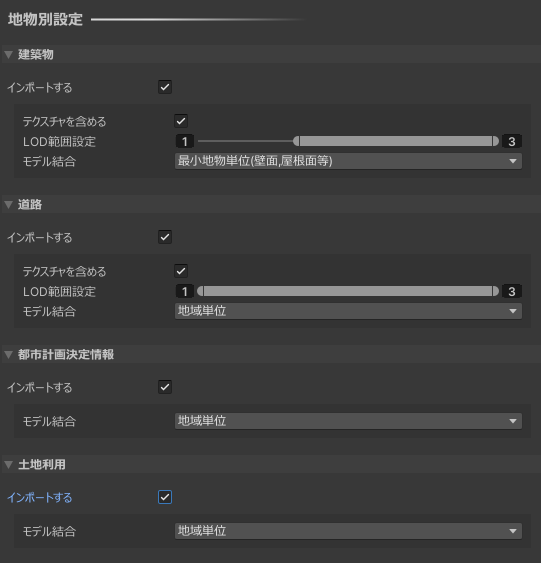
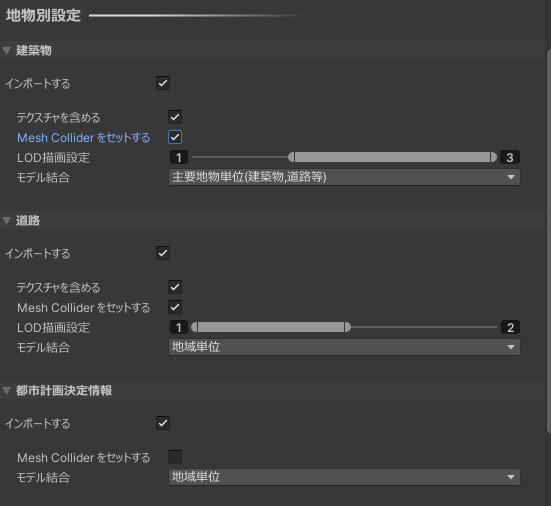
マニュアル編集

diff --git a/Documentation~/manual/ImportCityModels.md b/Documentation~/manual/ImportCityModels.md
@@ -55,6 +55,8 @@
 **設定項目について:**
 - ```インポートする```
   - チェックが付いている地物タイプのみインポートします。
+- ```Mesh Collider をセットする```
+  - チェックが付いている場合、各モデルに Mesh Collider が追加されます。
 - ```テクスチャを含める```
   - テクスチャが存在する地物タイプで表示される設定項目です。  
     チェックが付いていて、かつテクスチャがある場合はそれを含めてインポートします。  
@@ -89,7 +91,7 @@
 > データ容量が重く処理に時間がかかるのでご注意ください。
   
 ### インポートの実行
-- ```モデルのインポート```ボタンを押します。  
+- ```モデルをインポート```ボタンを押します。  
 ![](../resources/manual/importCityModels/importButton.png)
 - ```計算状況```ウィンドウが現れ、インポート処理の進捗が表示されます。
 ![](../resources/manual/importCityModels/importProgressWindow.png)
